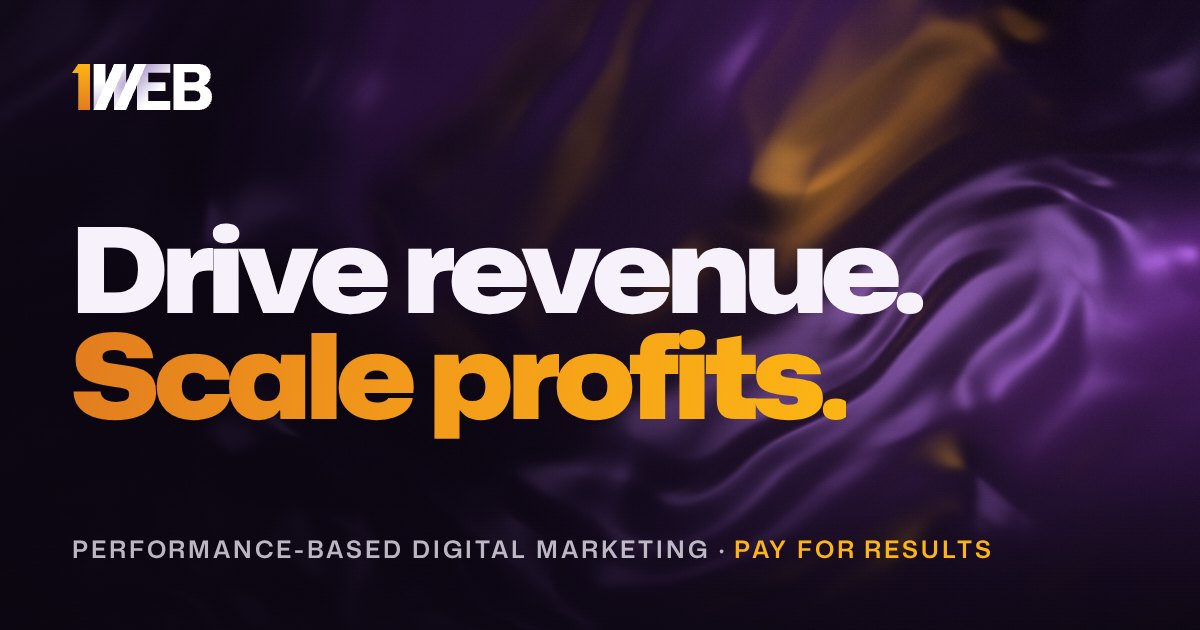
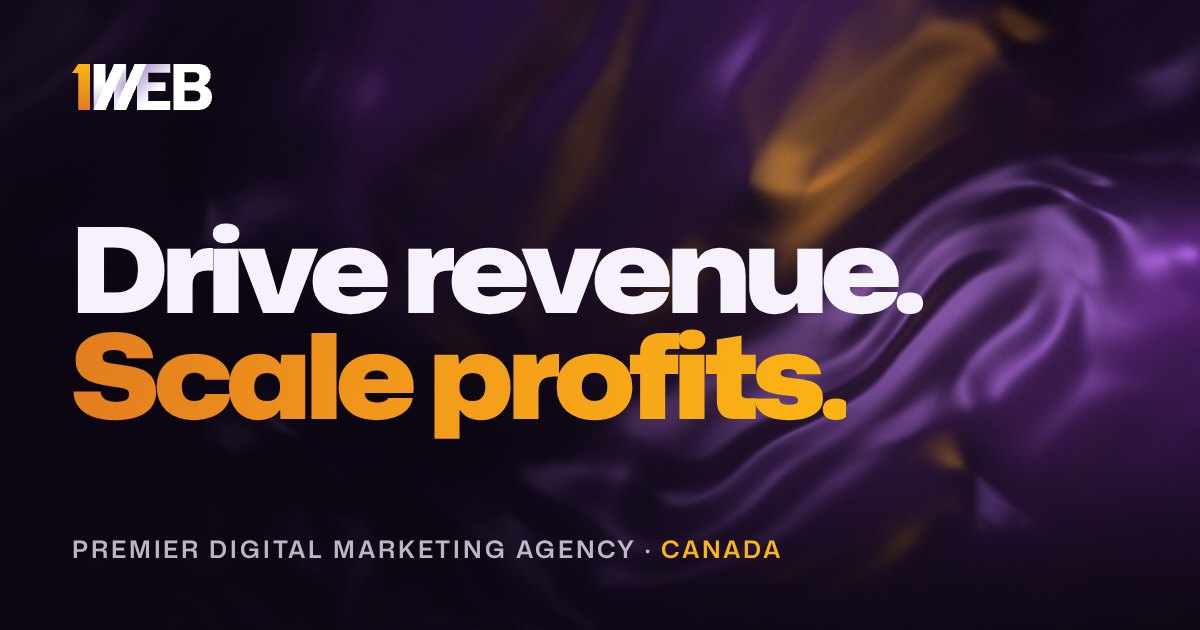
Fit pinned process panel to any screen height; remove pay-for-results copy
- Process section sizes heading, numbers, text and cards from viewport
  height, and only pins when the whole panel fits; otherwise it falls back
  to the card grid. Fixes cards being cut off on laptop screens.
- Remove all performance-based / pay-for-results messaging (hero, model
  comparison, manifesto, FAQ, meta tags, share image, README).

Changed region(s): [[0.0925, 0.8444, 0.8325, 0.9048]]

diff --git a/index.html b/index.html
@@ -3,8 +3,8 @@
 <head>
 <meta charset="utf-8">
 <meta name="viewport" content="width=device-width, initial-scale=1, viewport-fit=cover">
-<title>1WEB — Performance Digital Marketing Agency | Canada</title>
-<meta name="description" content="1WEB is a premier, performance-based digital marketing agency from Canada. Strategy, creative, media buying, CRM and email under one roof — and you only pay when we get you results.">
+<title>1WEB — Premier Digital Marketing Agency | Canada</title>
+<meta name="description" content="1WEB is a premier digital marketing agency from Canada. Strategy, creative, media buying, CRM and email under one roof — built to drive revenue and scale profits.">
 <meta name="theme-color" content="#0B0611">
 <meta name="color-scheme" content="dark light">
 <link rel="icon" href="assets/img/favicon.svg" type="image/svg+xml">
@@ -12,7 +12,7 @@
 <link rel="apple-touch-icon" href="assets/img/apple-touch-icon.png">
 <meta property="og:type" content="website">
 <meta property="og:title" content="1WEB — Drive revenue. Scale profits.">
-<meta property="og:description" content="Performance-based digital marketing. Strategy, creative, media and data under one roof — you only pay when we get you results.">
+<meta property="og:description" content="Premier digital marketing agency from Canada. Strategy, creative, media and data under one roof.">
 <meta property="og:image" content="https://samisayyed1.github.io/1web/assets/img/og.jpg">
 <meta property="og:image:width" content="1200">
 <meta property="og:image:height" content="630">
@@ -45,7 +45,7 @@
   "name": "1WEB",
   "url": "https://www.1web.com/",
   "logo": "https://samisayyed1.github.io/1web/assets/img/logo.svg",
-  "description": "Premier performance-based digital marketing agency from Canada.",
+  "description": "Premier digital marketing agency from Canada.",
   "areaServed": "Worldwide",
   "address": { "@type": "PostalAddress", "addressCountry": "CA" }
 }
@@ -130,7 +130,7 @@
       <span class="btn__label"><span>Book a discovery call</span></span>
       <span class="btn__icon"><svg aria-hidden="true"><use href="#i-arrow-ne"/></svg></span>
     </a>
-    <p>30 minutes · No obligation · Performance-based</p>
+    <p>30 minutes · No obligation · Expert team</p>
   </div>
 </div>
 
@@ -145,7 +145,7 @@
     <div class="wrap hero__inner">
       <div class="hero__top">
         <p class="eyebrow" data-hero-fade><span class="dot"></span>Premier digital agency · Canada</p>
-        <p class="hero__badge" data-hero-fade>Performance-based<br><span>You only pay for results</span></p>
+        <p class="hero__badge" data-hero-fade>Full-service growth agency<br><span>Strategy · Creative · Media · Data</span></p>
       </div>
 
       <h1 class="hero__title" data-hero-title>
@@ -154,7 +154,7 @@
       </h1>
 
       <div class="hero__bottom">
-        <p class="hero__lede" data-hero-fade>Robust digital marketing for brands and nonprofits that want to grow. Strategy, creative, media and data under one roof — and a model where you only pay when we get you results.</p>
+        <p class="hero__lede" data-hero-fade>Robust digital marketing for brands and nonprofits that want to grow. Strategy, creative, media and data under one roof — one expert team working on your growth.</p>
         <div class="hero__actions" data-hero-fade>
           <a class="btn btn--gold btn--lg" href="https://calendly.com/sami-1web/30min" data-book data-magnetic target="_blank" rel="noopener">
             <span class="btn__label"><span>Book a discovery call</span></span>
@@ -207,7 +207,7 @@
   <section class="manifesto" id="about" data-theme="ink">
     <div class="wrap">
       <p class="eyebrow"><span class="dot"></span>Why we exist</p>
-      <p class="manifesto__text" data-scrub-words>Let us focus on your growth, so you can focus on what you do best. We bring proven systems, proprietary data and decades of expertise into one growth engine — <em>and we only win when you do.</em></p>
+      <p class="manifesto__text" data-scrub-words>Let us focus on your growth, so you can focus on what you do best. We bring proven systems, proprietary data and decades of expertise into one growth engine — <em>so every dollar works harder.</em></p>
     </div>
   </section>
 
@@ -264,7 +264,7 @@
             <p class="compare__kicker">Building in-house</p>
             <p class="compare__price"><span>$200K+</span><small>/ year</small></p>
             <div class="meter" aria-hidden="true"><i data-meter></i></div>
-            <span class="meter__cap">Fixed cost — paid upfront, results or not</span>
+            <span class="meter__cap">Fixed overhead, every single month</span>
           </header>
           <ul class="ticks ticks--x">
             <li><svg aria-hidden="true"><use href="#i-x"/></svg>Salaries, tools and data — all on you</li>
@@ -277,20 +277,20 @@
           <div class="compare__glow" aria-hidden="true"></div>
           <header>
             <p class="compare__kicker"><svg class="compare__logo" viewBox="0 0 271.5 89.5" aria-label="1WEB" role="img"><use href="#logo"/></svg> Partnering with 1WEB</p>
-            <p class="compare__price"><span class="grad">Pay for results</span></p>
+            <p class="compare__price"><span class="grad">A full team, day one</span></p>
             <div class="meter meter--gold" aria-hidden="true"><i data-meter></i></div>
-            <span class="meter__cap">Tied to performance — we win when you win</span>
+            <span class="meter__cap">Strategists, creatives and media buyers — ready now</span>
           </header>
           <ul class="ticks">
             <li><svg aria-hidden="true"><use href="#i-check"/></svg>Proven systems and acquisition strategies</li>
             <li><svg aria-hidden="true"><use href="#i-check"/></svg>A robust set of tools and proprietary data</li>
             <li><svg aria-hidden="true"><use href="#i-check"/></svg>A team of industry experts from day one</li>
-            <li><svg aria-hidden="true"><use href="#i-check"/></svg>Performance-based: you only pay when we get you results</li>
+            <li><svg aria-hidden="true"><use href="#i-check"/></svg>Weekly and monthly reports on every result</li>
           </ul>
         </article>
       </div>
 
-      <p class="model__close" data-reveal>And you’ll never spend even close to that without an amazing revenue growth story.</p>
+      <p class="model__close" data-reveal>All the firepower of a full in-house team — without having to build one.</p>
     </div>
   </section>
 
@@ -541,8 +541,8 @@
       </div>
       <div class="faq__list">
         <details class="qa" data-reveal>
-          <summary><span>What does “performance-based” mean?</span><i aria-hidden="true"></i></summary>
-          <div class="qa__a"><div><p>Our model is results-oriented: you only pay when we get you results. On your discovery call we’ll walk you through exactly how it works for your goals.</p></div></div>
+          <summary><span>What makes 1WEB different?</span><i aria-hidden="true"></i></summary>
+          <div class="qa__a"><div><p>Proven acquisition strategies, 50+ years of combined experience and our own proprietary data — a Facebook pixel with over 1 million unique users in the past year and an email list of 100,000+ active members — all working for your growth.</p></div></div>
         </details>
         <details class="qa" data-reveal>
           <summary><span>Who do you work with?</span><i aria-hidden="true"></i></summary>

diff --git a/assets/js/main.js b/assets/js/main.js
@@ -462,25 +462,52 @@
     });
   });
 
-  // Process: pinned horizontal scroll on desktop
-  mm.add('(min-width: 1000px) and (min-height: 640px) and (prefers-reduced-motion: no-preference)', function () {
-    var section = $('.process');
-    var track = $('[data-process-track]');
-    var bar = $('[data-process-bar]');
-    section.classList.add('is-h');
-    var dist = function () { return Math.max(0, track.scrollWidth - window.innerWidth); };
-    var tl = gsap.timeline({
-      scrollTrigger: {
-        trigger: section, start: 'top top', end: function () { return '+=' + dist(); },
-        pin: true, scrub: .8, invalidateOnRefresh: true, anticipatePin: 1,
-        // Refresh this pin before everything else so triggers below it include its scroll distance.
-        refreshPriority: 1
-      }
-    });
-    tl.to(track, { x: function () { return -dist(); }, ease: 'none' }, 0)
-      .fromTo(bar, { scaleX: 0 }, { scaleX: 1, ease: 'none' }, 0);
-    return function () { section.classList.remove('is-h'); gsap.set(track, { clearProps: 'transform' }); };
-  });
+  // Process: pinned horizontal scroll on desktop — only when the whole panel fits on screen,
+  // otherwise it stays a normal card grid (never clipped).
+  var procSec = $('.process'), procPin = $('.process__pin');
+  var procTrack = $('[data-process-track]'), procBar = $('[data-process-bar]');
+  var procMQ = window.matchMedia('(min-width: 1000px) and (min-height: 560px) and (prefers-reduced-motion: no-preference)');
+  var procTl = null;
+  function procFits() {
+    var had = procSec.classList.contains('is-h');
+    procSec.classList.add('is-h');
+    var ok = procPin.scrollHeight <= procPin.clientHeight + 1;
+    if (!had) procSec.classList.remove('is-h');
+    return ok;
+  }
+  function setupProcess() {
+    var want = procMQ.matches && procFits();
+    if (want && !procTl) {
+      procSec.classList.add('is-h');
+      var dist = function () { return Math.max(0, procTrack.scrollWidth - window.innerWidth); };
+      procTl = gsap.timeline({
+        scrollTrigger: {
+          trigger: procSec, start: 'top top', end: function () { return '+=' + dist(); },
+          pin: true, scrub: .8, invalidateOnRefresh: true, anticipatePin: 1,
+          // Refresh this pin before everything else so triggers below it include its scroll distance.
+          refreshPriority: 1
+        }
+      });
+      procTl.to(procTrack, { x: function () { return -dist(); }, ease: 'none' }, 0)
+        .fromTo(procBar, { scaleX: 0 }, { scaleX: 1, ease: 'none' }, 0);
+      return true;
+    }
+    if (!want && procTl) {
+      procTl.scrollTrigger.kill(true);
+      procTl.kill(); procTl = null;
+      gsap.set([procTrack, procBar], { clearProps: 'transform' });
+      procSec.classList.remove('is-h');
+      return true;
+    }
+    return false;
+  }
+  function reevaluateProcess() {
+    if (setupProcess()) { ScrollTrigger.sort(); ScrollTrigger.refresh(); }
+  }
+  setupProcess();
+  var procResizeT = 0;
+  window.addEventListener('resize', function () { clearTimeout(procResizeT); procResizeT = setTimeout(reevaluateProcess, 250); });
+  if (document.fonts && document.fonts.ready) document.fonts.ready.then(reevaluateProcess);
 
   /* Refresh once fonts + images settle (prevents mis-measured pins) */
   // Triggers were created in code order, not page order — sort them top-to-bottom (pins first) then measure.

diff --git a/assets/css/main.css b/assets/css/main.css
@@ -652,7 +652,15 @@ html.bg-anim .numbers::before { opacity: 1; }
 
 /* Horizontal pinned mode (desktop, enabled by JS) */
 .process.is-h { padding-block: 0; }
-.process.is-h .process__pin { height: 100vh; height: 100svh; display: flex; flex-direction: column; justify-content: center; padding-top: var(--header-h); overflow: hidden; }
+/* Everything in the pinned panel is sized from the viewport height so heading + cards always fit one screen. */
+.process.is-h .process__pin {
+  height: 100vh; height: 100svh;
+  display: flex; flex-direction: column; justify-content: center;
+  padding-top: calc(var(--header-h) + 1vh); padding-bottom: 3vh;
+  overflow: hidden;
+}
+.process.is-h .process__head { margin-bottom: clamp(16px, 4vh, 56px); }
+.process.is-h .process__head .h2 { font-size: clamp(2rem, min(1.2rem + 4.2vw, 8.4vh), 6rem); margin-top: clamp(8px, 1.6vh, 18px); }
 .process.is-h .process__progress { display: block; }
 .process.is-h .process__track {
   display: flex; gap: 20px; width: max-content; max-width: none; margin: 0;
@@ -660,9 +668,13 @@ html.bg-anim .numbers::before { opacity: 1; }
   padding-right: var(--pad);
   will-change: transform;
 }
-.process.is-h .step { width: clamp(340px, 31vw, 470px); min-height: min(52svh, 480px); grid-column: auto; }
+.process.is-h .step { width: clamp(340px, 31vw, 470px); min-height: min(48svh, 500px); padding: clamp(18px, 3vh, 40px); grid-column: auto; }
 .process.is-h .step:nth-child(odd) { background: var(--ink-3); }
-.process.is-h .step__n { margin-bottom: auto; padding-bottom: 24px; }
+.process.is-h .step__n { font-size: clamp(2.6rem, 8.5vh, 7rem); margin-bottom: auto; padding-bottom: clamp(10px, 2.4vh, 24px); }
+.process.is-h .step h3 { margin-top: clamp(6px, 1.4vh, 18px); font-size: clamp(1.2rem, 3.1vh, 2rem); }
+.process.is-h .step > p:not(.step__n) { margin-top: clamp(6px, 1.2vh, 12px); font-size: clamp(.875rem, 1.95vh, 1.0625rem); line-height: 1.5; }
+.process.is-h .chips { margin-top: clamp(10px, 1.8vh, 20px); gap: 6px; }
+.process.is-h .chips li { padding: clamp(4px, .7vh, 7px) 12px; font-size: .78rem; }
 
 /* ---------- Services ---------- */
 .services { padding-block: var(--section-y); }

diff --git a/README.md b/README.md
@@ -1,6 +1,6 @@
 # 1WEB — website redesign
 
-A redesign of [1web.com](https://www.1web.com/) for 1WEB, a performance-based digital marketing agency from Canada.
+A redesign of [1web.com](https://www.1web.com/) for 1WEB, a premier digital marketing agency from Canada.
 
 **Live:** https://samisayyed1.github.io/1web/
 
